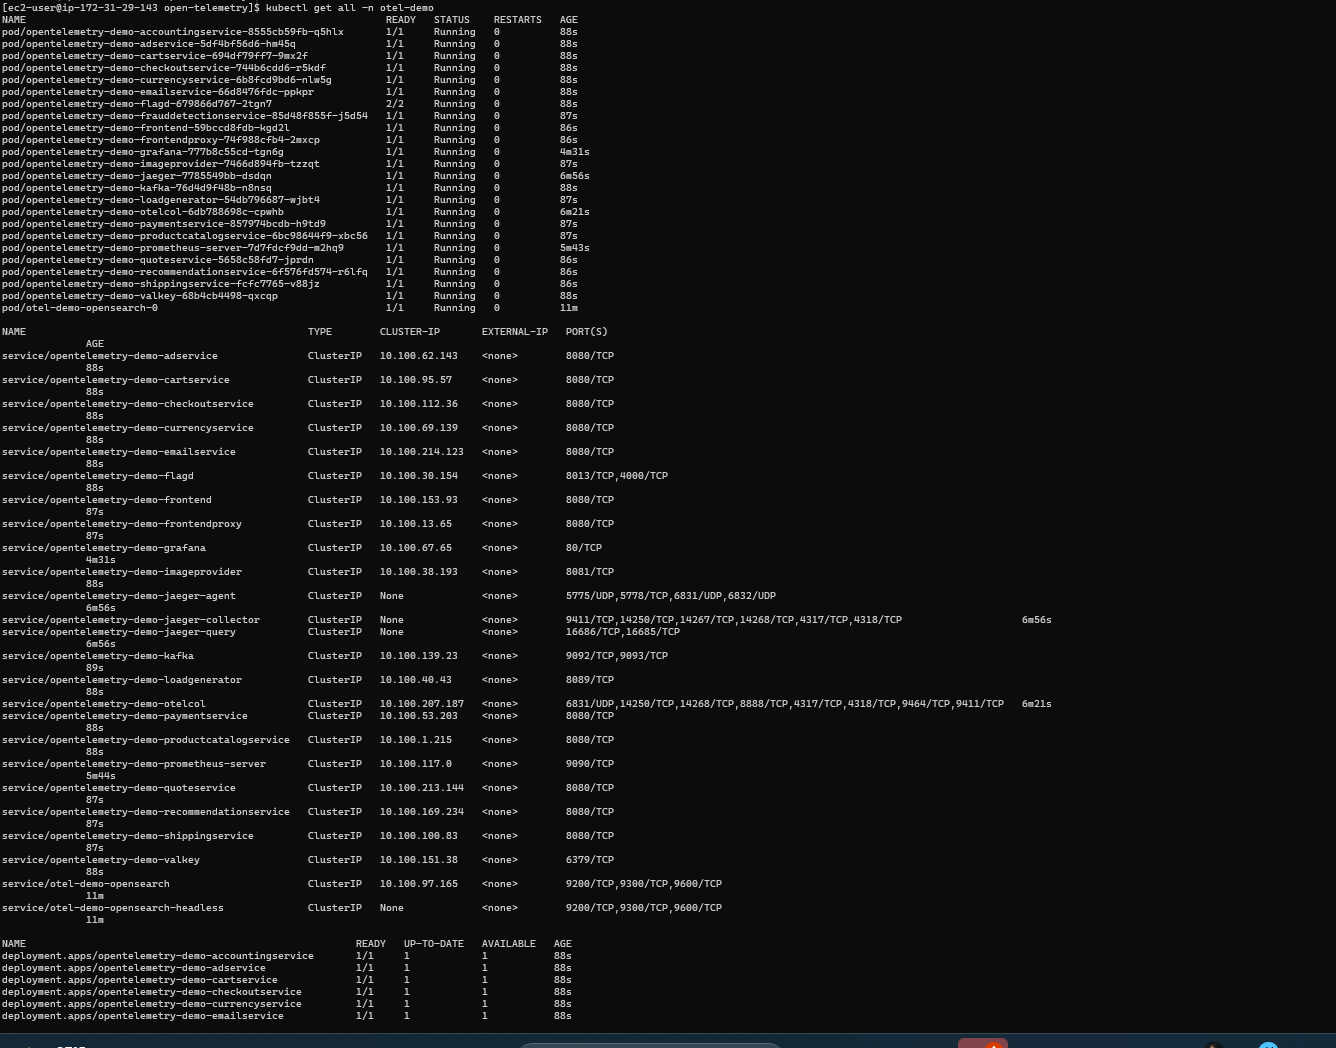
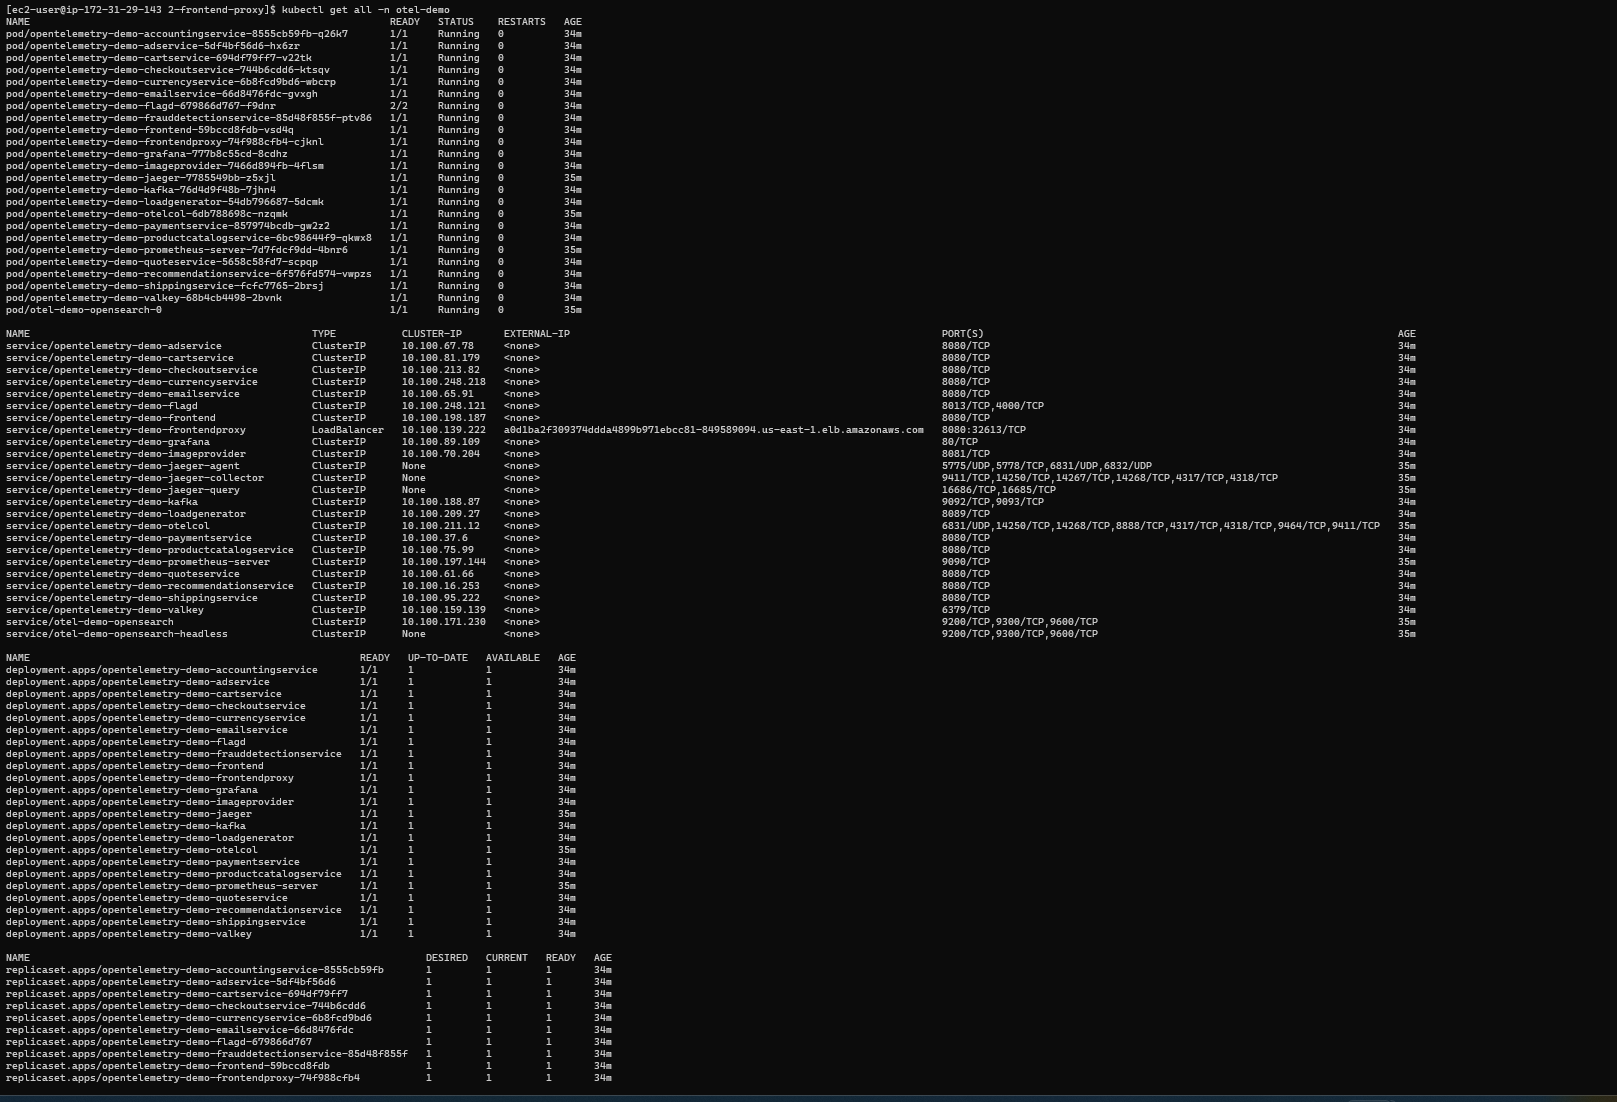
phase 2

Changed region(s): [[0.0, 0.0, 1.0, 1.0], [0.3683, 0.5191, 0.399, 0.5496]]

diff --git a/README.md b/README.md
@@ -446,10 +446,34 @@ Deploy the application by creating and organizing split YAML files, applying the
 
     ![Kubectl get all](/screenshots/phase2/kubectl-get-all-n-otel-demo.png)
 
-    
 - Logs or screenshots verifying the initialization and proper functioning of application
+
+    ![WebStore Access](/screenshots/phase2/web-store-access.png)
+
+    ![Grafana](/screenshots/phase2/grafana.png)
+
+    ![LoadGen](/screenshots/phase2/loadgen.png)
+
+    ![Jaeger UI](/screenshots/phase2/jaeger-ui.png)
+
+    ![Flag d](/screenshots/phase2/flagd.png)
+
+    - Frontend-proxy pod logs 
+
+    ![Frontend-proxy pod logs](/screenshots/phase2/frontend-proxy-logs.png)
+
+    - Grafana pod log
+
+    ![Grafana pod logs](/screenshots/phase2/grafana-pod-log.png)
+
+
 - A ZIP file containing the organized and split YAML
+
+    - Link to zip file : [zip file](/phase2/deployment.zip)
+
 - A short report explaining the purpose of each resource, steps followed during deployment, and resolutions to any challenges Note : Manage the namespaces properly while deploying the yaml files
+
+
  
 
 
